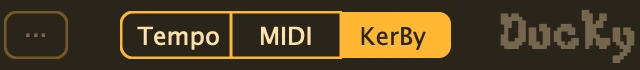
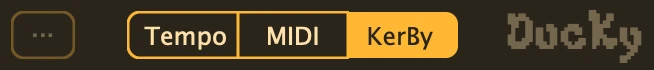
Even padding around the DucKy header in the ducking guide

diff --git a/kerby/learn/duck-your-mix/index.html b/kerby/learn/duck-your-mix/index.html
@@ -113,7 +113,7 @@
                                         <source media="(prefers-color-scheme: dark)"
                                             srcset="/assets/images/software/ducky/ducky-header-kerby-dark.webp">
                                         <img src="/assets/images/software/ducky/ducky-header-kerby-light.webp"
-                                            width="320" height="35" alt="DucKy’s header, with KerBy selected and
+                                            width="327" height="35" alt="DucKy’s header, with KerBy selected and
                                             highlighted beside Tempo and MIDI.">
                                     </picture>
                                 </figure>
